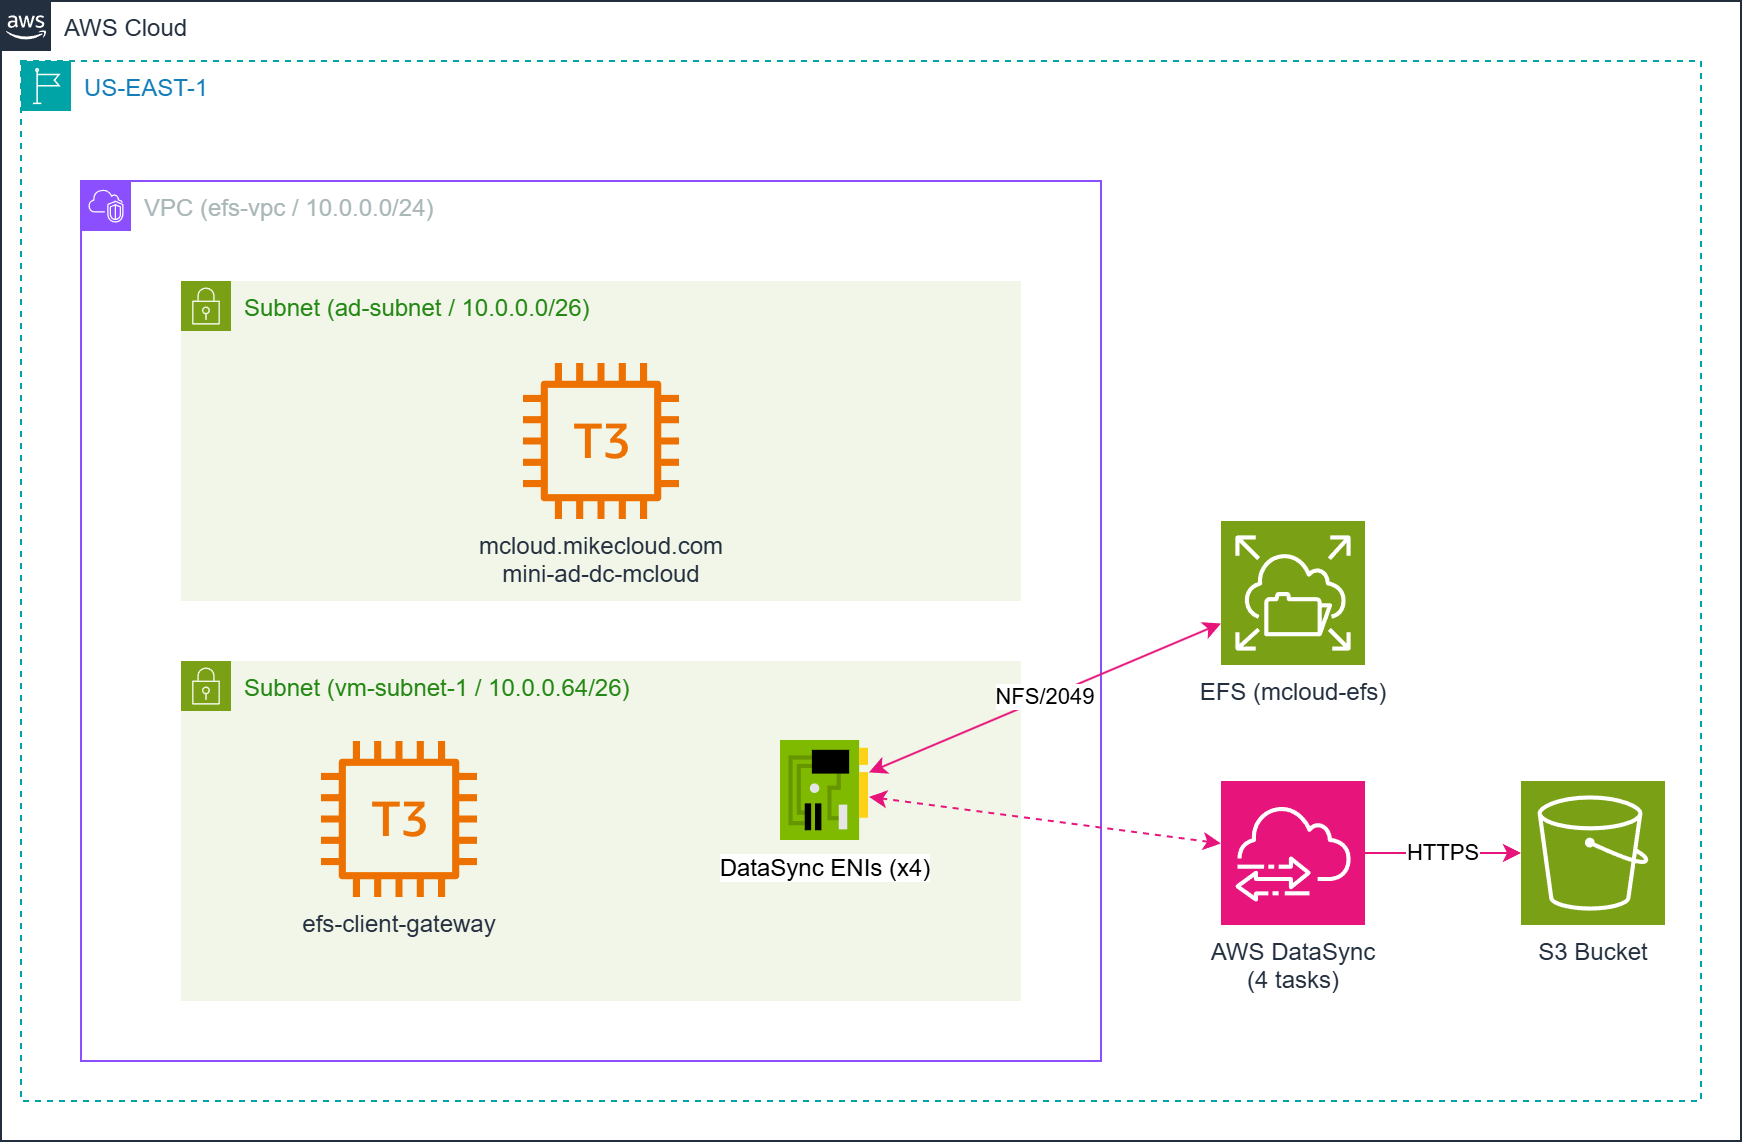
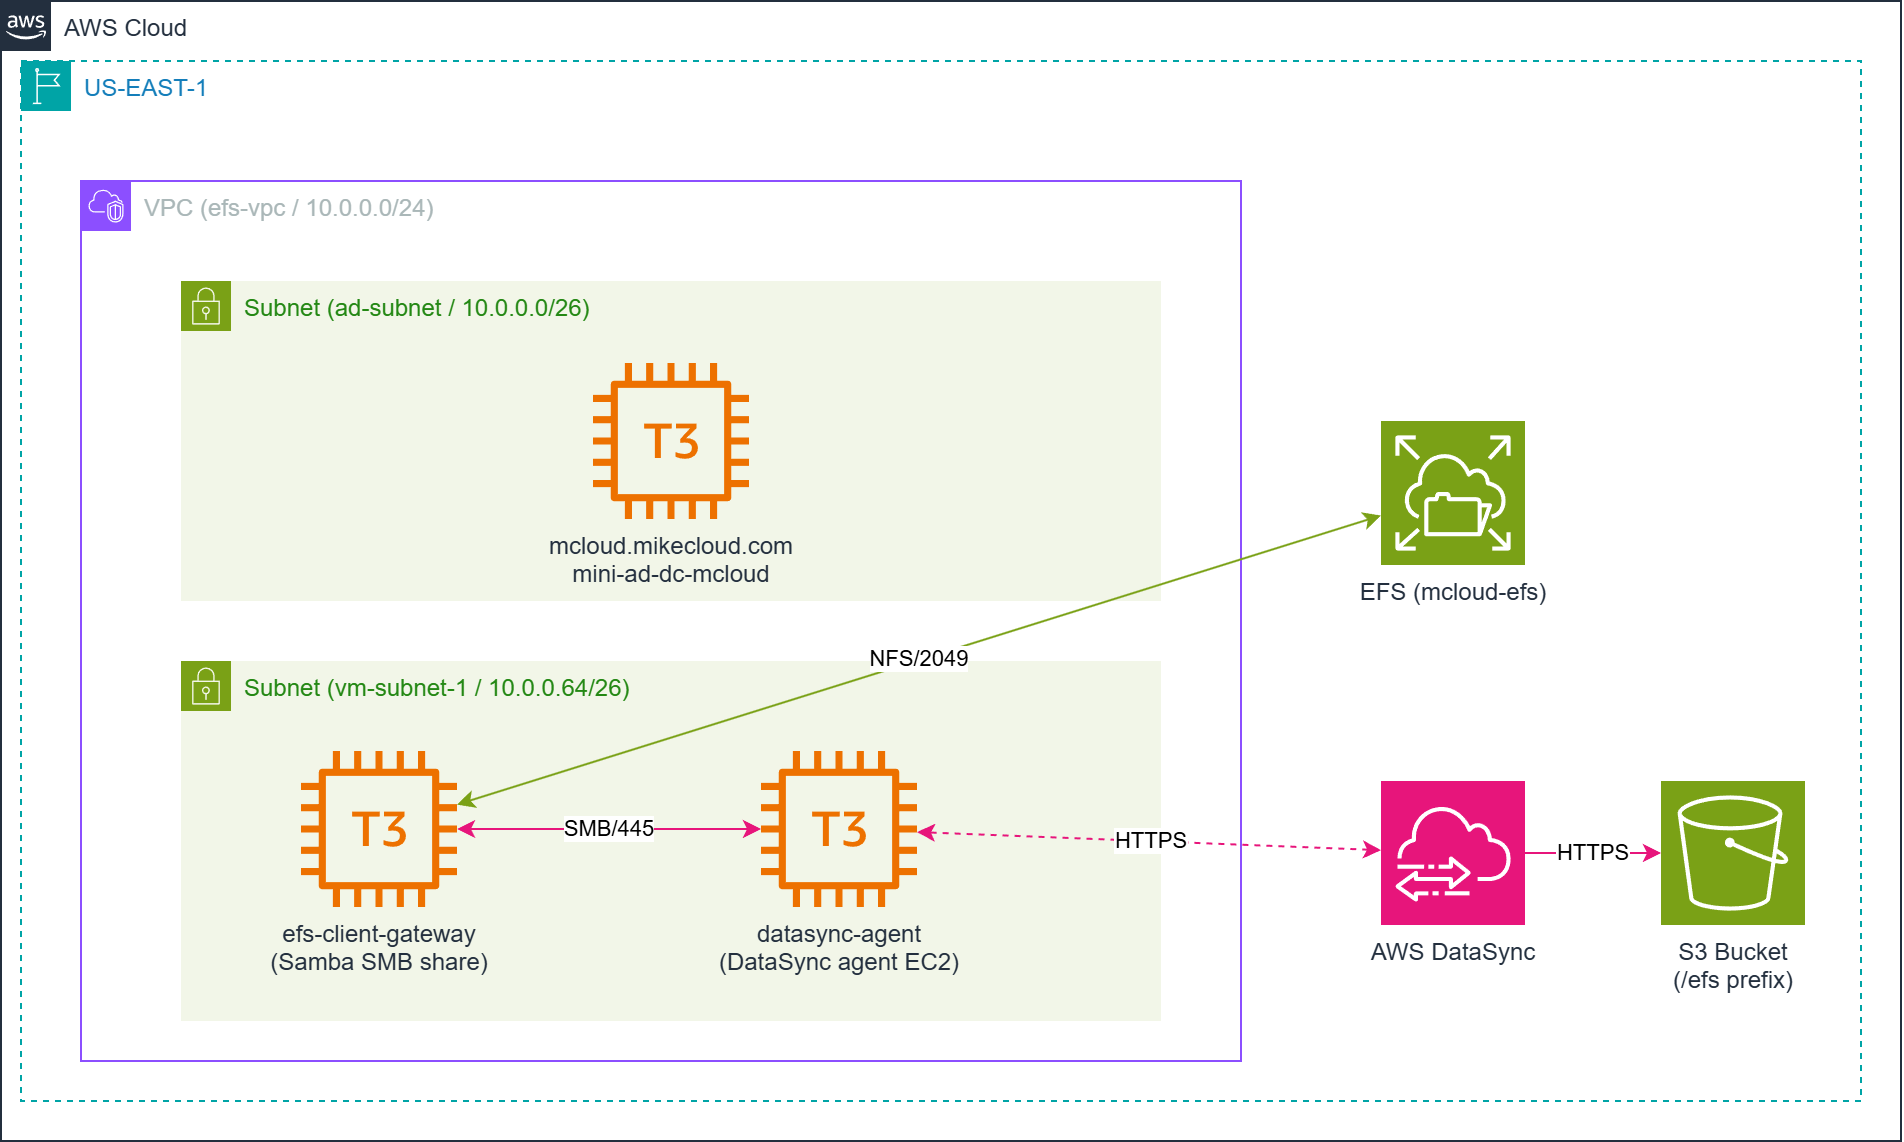
work on agent variant

diff --git a/README.md b/README.md
@@ -9,7 +9,7 @@ The infrastructure is deployed in four phases:
 3. **S3 + IAM + CloudWatch** — The S3 destination bucket, IAM role for DataSync S3 access, and CloudWatch log group for task execution logs.
 4. **DataSync Agent** — A DataSync agent EC2 instance provisioned in the VPC. After Terraform apply, `activate-agent.sh` registers the agent, creates an SMB source location pointing at the Samba share, and wires it to an S3 destination task.
 
-![AWS diagram](aws-data-sync-agent.png)
+![AWS diagram](aws-data-sync.png)
 
 ---
 
@@ -23,6 +23,8 @@ The key distinction this project demonstrates:
 | **How DataSync connects** | ENI injected directly into VPC | Agent EC2 inside VPC proxies the connection |
 | **When required** | AWS-native storage (EFS, FSx) | Non-AWS or protocol-specific sources (SMB, NFS on-prem) |
 | **Activation step** | None | HTTP handshake to agent port 80 |
+
+![flow](datasync-flow.png)
 
 A DataSync **agent** is an EC2 instance running AWS-provided software that acts as a bridge between the DataSync service and storage that DataSync cannot reach directly. For SMB sources, the agent mounts the share internally using `mount.cifs` and streams data to the DataSync service, which writes it to the S3 destination.
 
